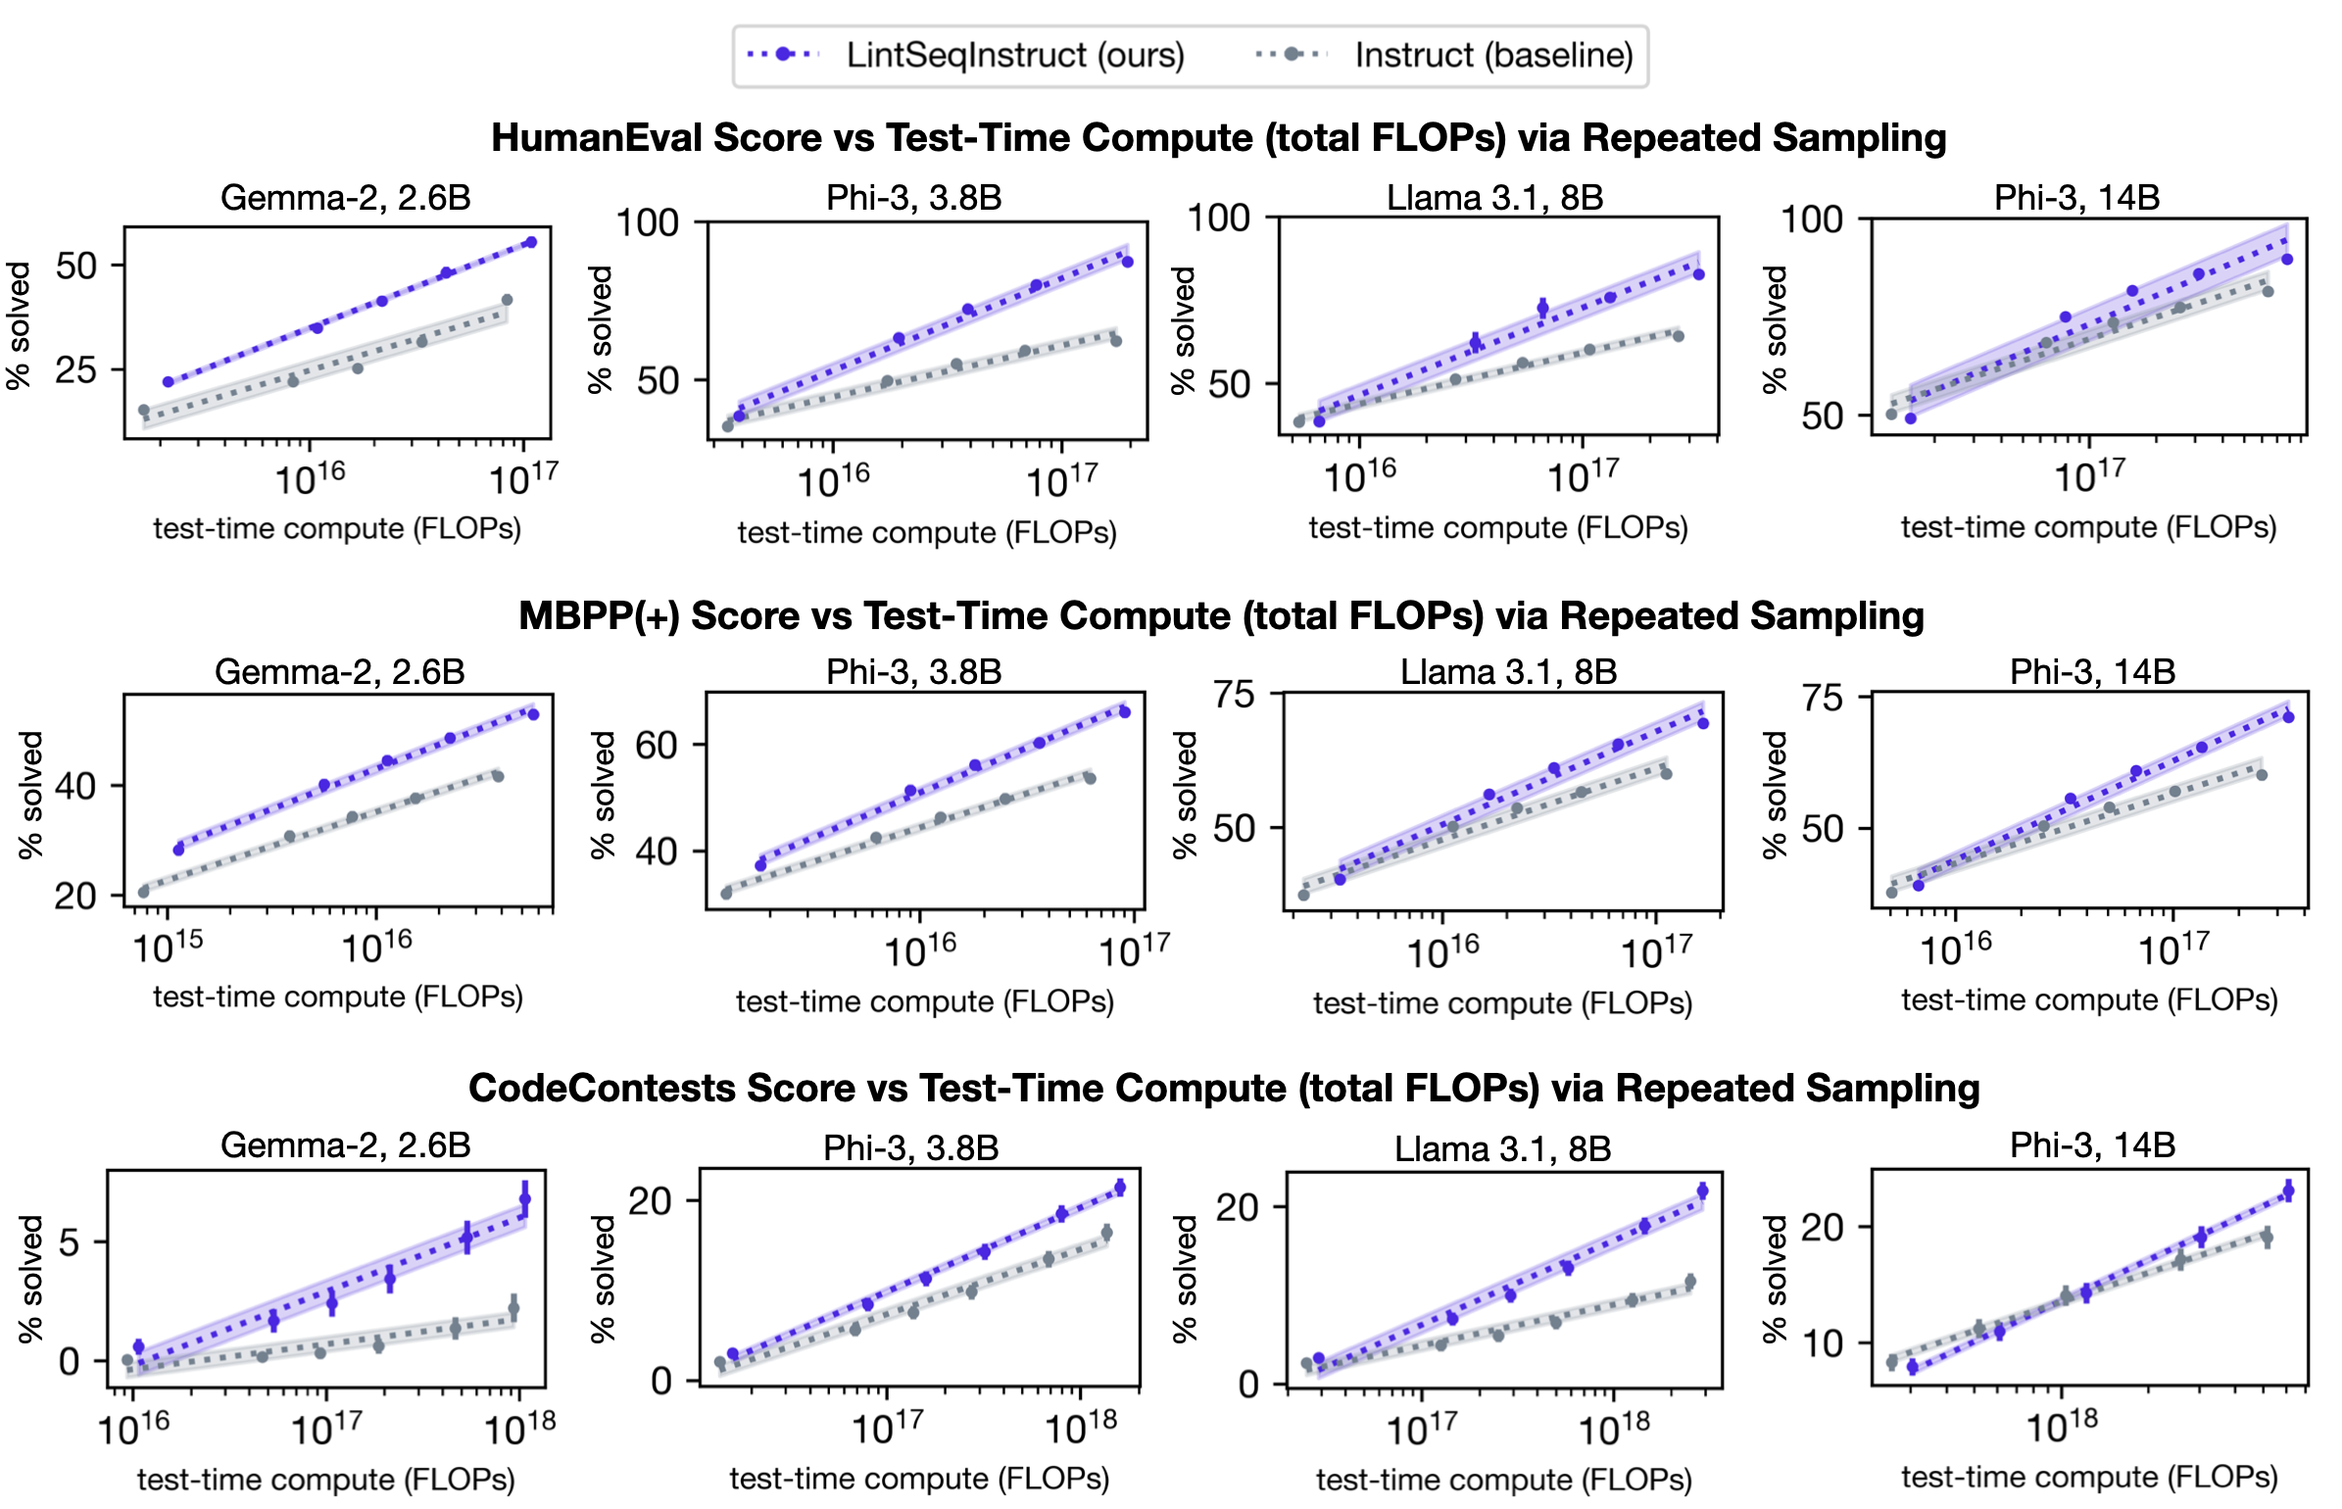
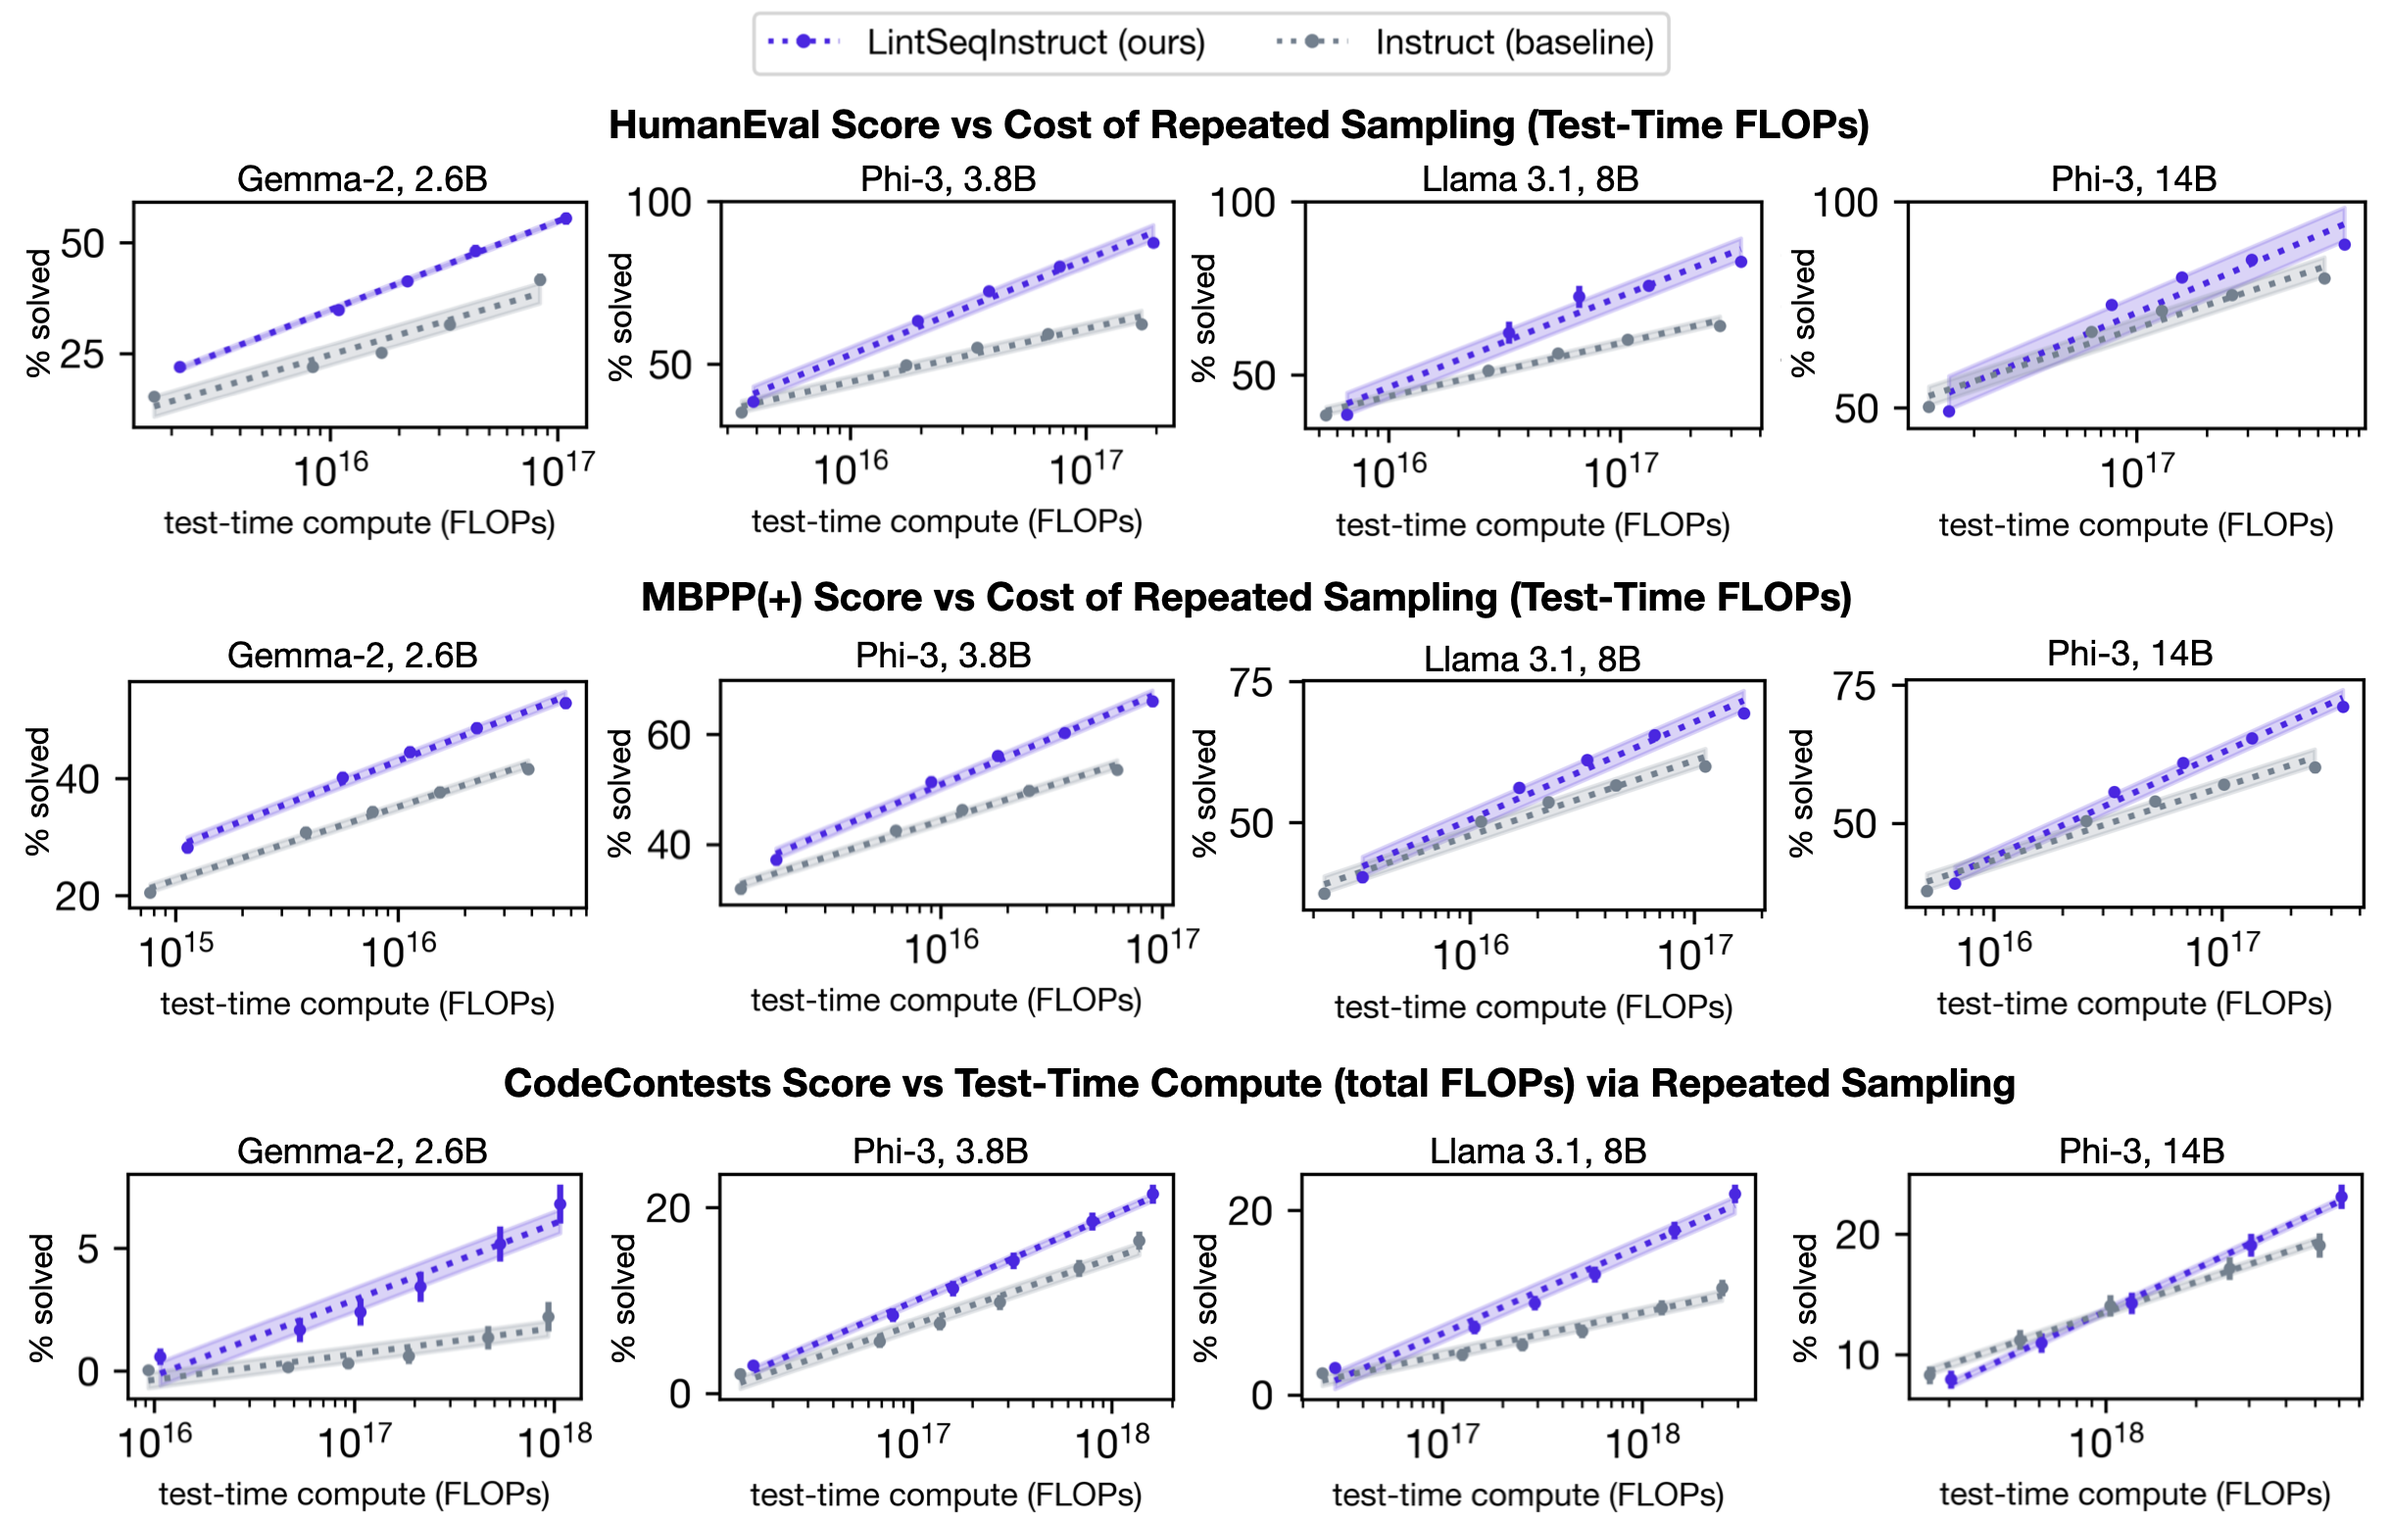
update

Changed region(s): [[0.0, 0.0, 0.9908, 0.9974]]

diff --git a/index.html b/index.html
@@ -187,7 +187,13 @@
         <h2 class="title is-3">Abstract</h2>
         <div class="content has-text-justified">
           
-          Software engineers mainly write code by editing existing programs. In contrast, language models (LMs) autoregressively synthesize programs in a single pass. One explanation for this is the scarcity of sequential edit data. While high-quality instruction data for code synthesis is scarce, edit data for synthesis is even scarcer. To fill this gap, we develop a synthetic data generation algorithm called LintSeq. This algorithm refactors programs into sequences of synthetic edits by using a linter to procedurally sample across interdependent lines of source code. Synthetic edits sampled with LintSeq reflect the syntax and semantics of their programming language. To test the algorithm, we use it to refactor a dataset of instruction + program pairs into instruction + program-diff-sequence tuples. Then, we fine-tune a series of smaller LMs ranging from 2.6B to 14B parameters on both the re-factored and original versions of this dataset. We perform comprehensive evaluations comparing edit sequence code LMs against baselines on HumanEval, MBPP(+), CodeContests, DS-1000, and BigCodeBench. We show that models fine-tuned to iteratively synthesize code match or outperform baselines on pass@1, and exhibit better scaling across higher pass@k as a function of total test-time FLOPs. Finally, we also pretrain our own tiny LMs for code understanding. We show that fine-tuning these models to synthesize code edit-by-edit results in strong performance on HumanEval and MBPP(+) compared to existing code language models of similar scale such as AlphaCode and Codex.
+          Software engineers mainly write code by editing existing programs. In contrast, language models (LMs) autoregressively synthesize programs in a single pass. One explanation for this is the scarcity of sequential edit data. While high-quality instruction data for code synthesis is scarce, edit data for synthesis is even scarcer. 
+          <br>
+          <br>
+          To fill this gap, we develop a synthetic data generation algorithm called LintSeq. This algorithm refactors programs into sequences of synthetic edits by using a linter to procedurally sample across interdependent lines of source code. <b>Synthetic edits sampled with LintSeq reflect the syntax and semantics of their programming language.</b>
+          <br>
+          <br>
+           To test the algorithm, we use it to refactor a dataset of instruction + program pairs into instruction + program-diff-sequence tuples. Then, we fine-tune a series of smaller LMs ranging from 2.6B to 14B parameters on both the re-factored and original versions of this dataset. We perform comprehensive evaluations comparing edit sequence code LMs against baselines on HumanEval, MBPP(+), CodeContests, DS-1000, and BigCodeBench. <b>We show that models fine-tuned to iteratively synthesize code match or outperform baselines on pass@1, and exhibit better scaling across higher pass@k as a function of total test-time FLOPs.</b> Finally, we also pretrain our own tiny LMs for code understanding. We show that fine-tuning these models to synthesize code edit-by-edit results in strong performance on HumanEval and MBPP(+) compared to existing code language models of similar scale such as AlphaCode and Codex.
         </div>
       </div>
     </div>
@@ -229,12 +235,12 @@
   <div class="container is-max-desktop">
     <div class="columns is-multiline">
       <div class="column is-12">
-        <h2 class="title">2. Iterative Code Generation improves the Slope of Test-Time Scaling Laws for Repeated Sampling</h2>
+        <h2 class="title">2. Sequential Code Generation improves the Slope of Test-Time Scaling Laws for Repeated Sampling</h2>
         <p>
-          By adding edits that reflect programming language abstractions to instruction data with LintSeq, we train language models to synthesize programs one ("linted") edit at a time. This results in substantial improvements to the diversity of model-generated code, compared to training on a dataset of equivalent ``single-shot'' instruction data for code synthesis. The improved diversity of generated programs means that pass@k performance increases faster as a function of test-time FLOPs, allowing for a better trade-off between the two. We demonstrate this effect on four different language models. 
+          By adding edits that reflect programming language abstractions to instruction data with LintSeq, we train language models to synthesize programs one ("linted") edit at a time. This results in <b>substantial improvements to the overall diversity of model-generated code</b>, compared to training on a dataset of equivalent "single-shot" instruction data for code synthesis. The improved diversity of sampled programs means that pass@k performance increases faster as a function of test-time FLOPs, allowing for a better trade-off between the two. We demonstrate this effect on four different language models. 
           <br>
           <br>
-          In the figure below, we report the best performance of models SFT-ed on edit sequence pre-processed vs standard instruction data after sweeping over sampling temperature, top-p, and mip-p. We then plot benchmark score (pass@k) as a function of the total cost of repeated sampling from each model in FLOPs.
+          In the figure below, we report the best performance of models SFT-ed on edit sequence pre-processed vs standard instruction data after sweeping over sampling temperature, top-p, and min-p. We then plot benchmark score (pass@k) as a function of the total cost of repeated sampling from each model in FLOPs. Shading shows standard error in linear fit.
 
           <div class="hero-body"  style="text-align: center;" >
           <img src="./static/images/test_time_v2.png"
